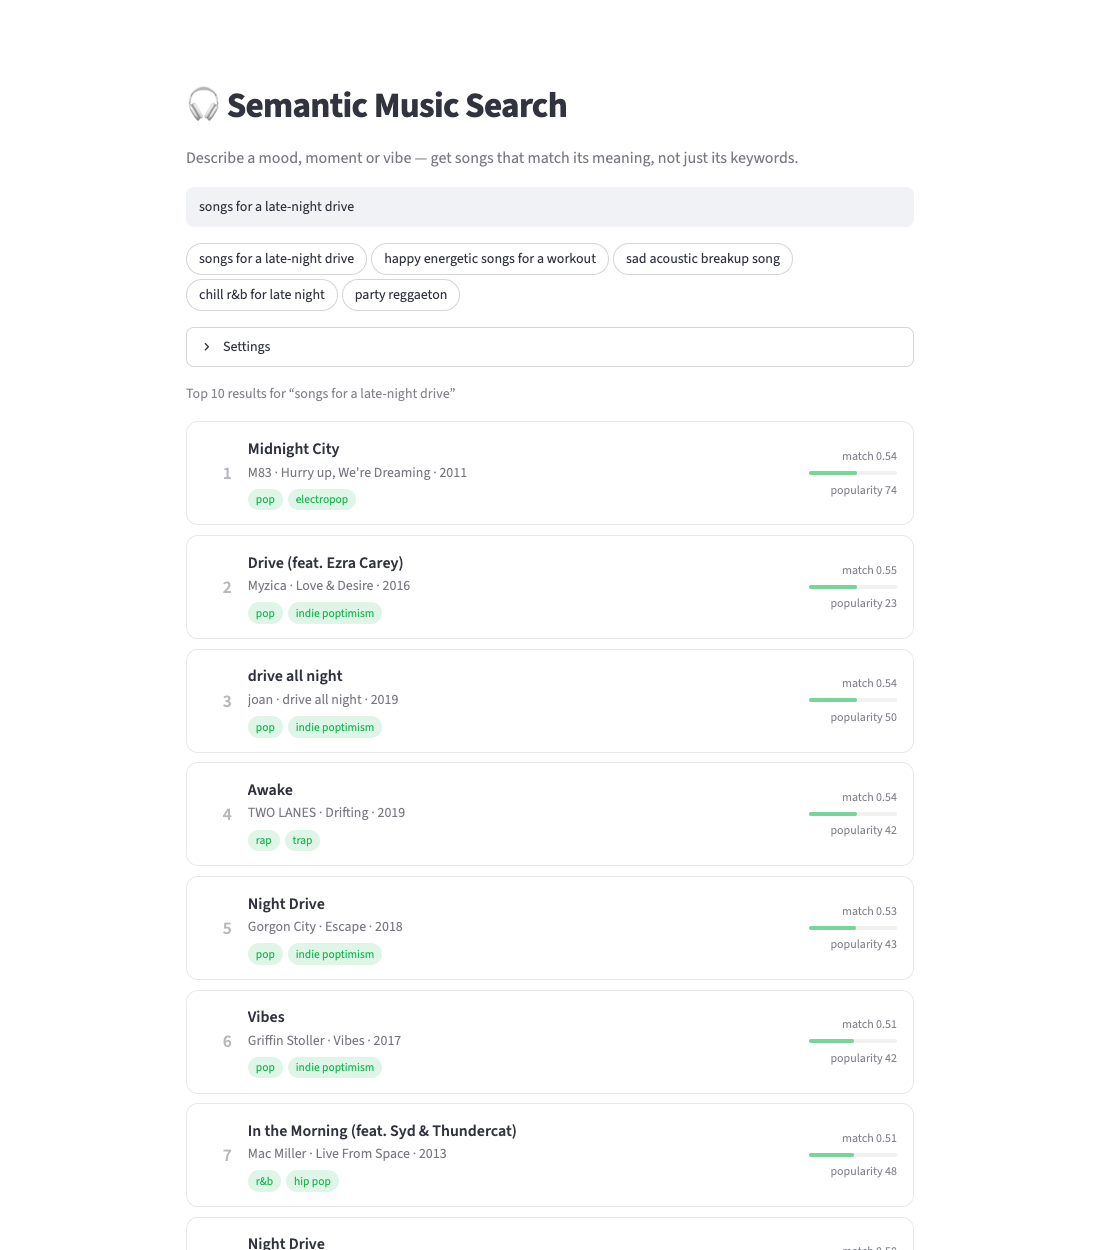
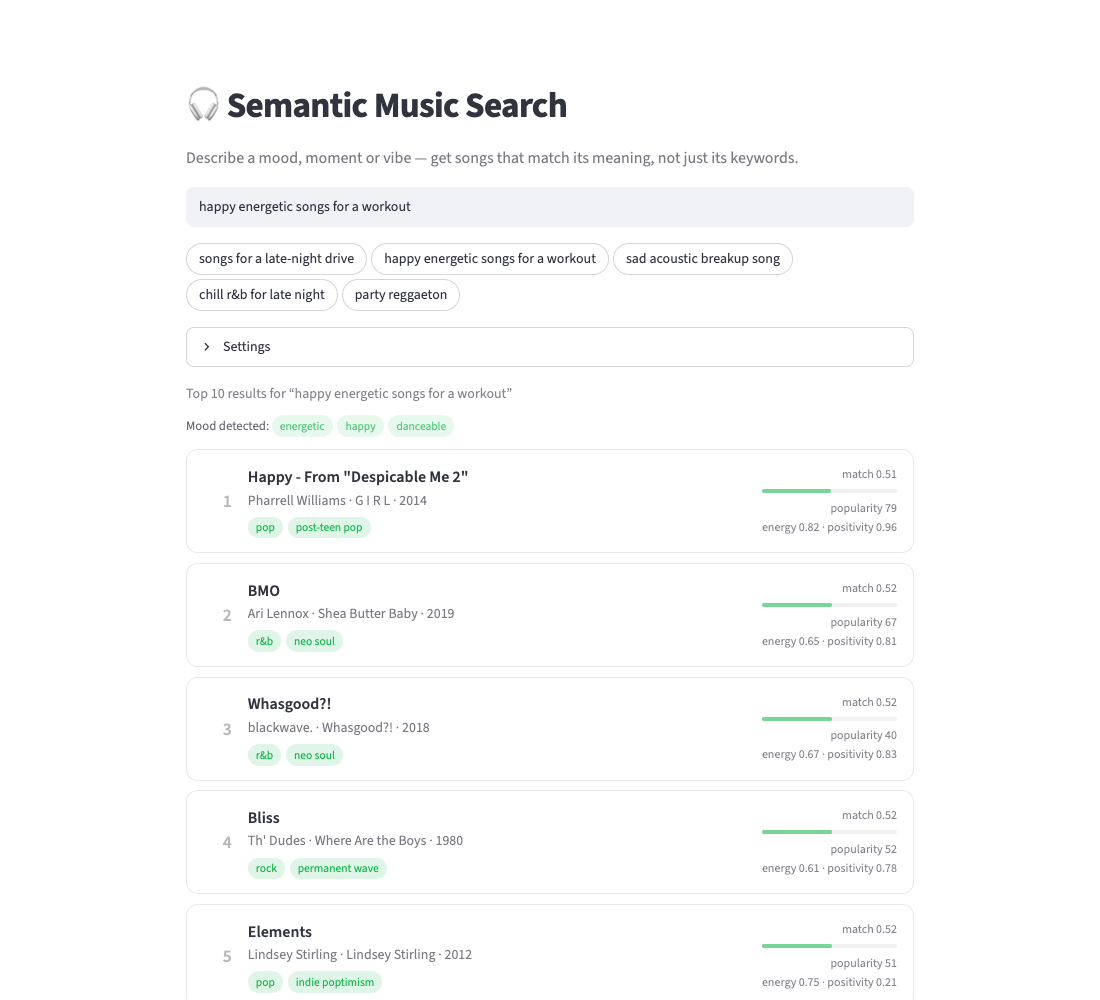
docs: document mood ranking, updated evaluation and dark-mode screenshot

diff --git a/README.md b/README.md
@@ -5,21 +5,27 @@ late-night drive"*, *"sad acoustic breakup song"*, *"party reggaeton"* — inste
 of typing exact titles or artists.
 
 Each song's title, artist, genre and lyrics are encoded into a sentence
-embedding; a query is embedded the same way and matched by cosine similarity,
-with an optional re-rank that nudges well-known songs up among equally good
-matches. It ships with a Streamlit UI, a CLI, and an offline evaluation script.
+embedding; a query is embedded the same way and matched by cosine similarity.
+The best matches are then re-ranked using popularity and — when the query
+mentions a mood like *calm*, *sad* or *workout* — the songs' measured audio
+features (energy, valence, danceability, acousticness). It ships with a
+Streamlit UI, a CLI, and an offline evaluation script.
 
-![Streamlit UI](docs/screenshot.png)
+<picture>
+  <source media="(prefers-color-scheme: dark)" srcset="docs/screenshot-dark.png">
+  <img alt="Streamlit UI showing results for 'happy energetic songs for a workout'" src="docs/screenshot.png">
+</picture>
 
 ## Features
 
 - **Natural-language search** — describe a mood, activity, theme or genre in plain English.
 - **Semantic retrieval** — query and songs are embedded with `all-MiniLM-L6-v2`; results are ranked by cosine similarity (top 10 by default).
 - **Hybrid ranking** — optionally blends semantic similarity with Spotify popularity (`alpha` controls the mix).
+- **Mood-aware ranking** — mood words in the query (e.g. *calm*, *chill*, *sad*, *happy*, *workout*, *dance*, *acoustic*) are matched against each song's audio features, so "calm music" favours songs that actually measure as low-energy — not just songs whose lyrics say "calm".
 - **Duplicate collapsing** — the same song released on several albums appears only once in results.
-- **Streamlit UI** — search box, example queries, adjustable result count / ranking, result cards with album, year, genre tags and a link to the track on Spotify. Searches are shareable via `?q=...` in the URL.
-- **CLI** — `python search.py "your query"` with `--top-k`, `--alpha`, `--no-hybrid`.
-- **Offline evaluation** — Precision@10 / Recall@10 / NDCG@10 over a 10-query weak-labeled set, comparing semantic-only vs. hybrid ranking.
+- **Streamlit UI** — search box, example queries, the detected mood, adjustable result count / ranking, and result cards with album, year, genre tags, energy/positivity and a link to the track on Spotify. Follows your light/dark preference. Searches are shareable via `?q=...` in the URL.
+- **CLI** — `python search.py "your query"` with `--top-k`, `--alpha`, `--mood-weight`, `--no-hybrid`.
+- **Offline evaluation** — Precision@10 / Recall@10 / NDCG@10 over a 10-query weak-labeled set, comparing semantic-only, hybrid, and hybrid + mood ranking.
 
 ## Tech stack
 
@@ -31,8 +37,8 @@ Python 3.10+ · [Sentence Transformers](https://www.sbert.net/) (`all-MiniLM-L6-
 flowchart TD
     A[data/spotify_songs.csv<br/>18,454 songs] --> B[embed.py<br/>song_text = title + artist + genre + lyrics<br/>encode with all-MiniLM-L6-v2]
     B --> C[(song_embeddings.npy<br/>18454 x 384)]
-    B --> D[(song_metadata.csv<br/>track_id, name, artist, popularity)]
-    C --> E[retrieval.py<br/>cosine similarity · hybrid rerank · dedupe]
+    B --> D[(song_metadata.csv<br/>track_id, name, artist, popularity,<br/>energy, valence, danceability, acousticness)]
+    C --> E[retrieval.py<br/>cosine similarity · popularity + mood rerank · dedupe]
     D --> E
     E --> F[search.py<br/>CLI + search function]
     F --> G[app.py<br/>Streamlit UI]
@@ -46,19 +52,24 @@ flowchart TD
 ### How ranking works
 
 1. Embed the query and compute cosine similarity against every song.
-2. **Semantic-only mode:** sort by similarity.
+2. **Semantic-only mode (`--no-hybrid`):** sort by similarity.
 3. **Hybrid mode (default):** take the top 100 songs by similarity (or `2 × top_k` if more results are requested), then re-rank them by
    `score = alpha × norm_similarity + (1 − alpha) × popularity / 100`,
-   where similarity is min-max normalized within that candidate pool. Popularity can only reorder songs that already matched semantically — it never pulls in an unrelated song. `alpha = 0.8` by default (1.0 = pure semantic, 0.0 = pure popularity); it was chosen by hand, not tuned.
-4. Collapse duplicates (same title + artist, case-insensitive) and return the top *k*.
+   where similarity is min-max normalized within that candidate pool. Popularity can only reorder songs that already matched semantically — it never pulls in an unrelated song. `alpha = 0.8` by default (1.0 = pure semantic, 0.0 = pure popularity).
+4. **Mood:** if the query contains mood keywords (`retrieval.MOOD_KEYWORDS`), each one sets a target direction on an audio feature — e.g. *sad* → low valence, *workout* → high energy and danceability, *acoustic* → high acousticness. The candidate pool widens to 200 and the score becomes
+   `score = (1 − mood_weight) × hybrid_score + mood_weight × mood_fit`,
+   where `mood_fit` is the song's average fit to those targets (a feature value for "high", 1 − value for "low"). `mood_weight = 0.3` by default; 0 disables it. Queries without mood words are unaffected.
+5. Collapse duplicates (same title + artist, case-insensitive) and return the top *k*.
+
+`alpha` and `mood_weight` were chosen by hand and sanity-checked on queries outside the evaluation set — not tuned to maximize the evaluation (see [Evaluation](#evaluation) for why that would be circular).
 
 Cosine similarity is used rather than a raw dot product because the model encodes meaning in the *direction* of a vector; normalizing removes any effect of text length on magnitude.
 
 ## Prerequisites
 
-- Python 3.10 or newer (developed and tested on 3.13)
+- Python 3.10 or newer (tested on 3.10 and 3.13)
 - ~2 GB free disk space for dependencies (PyTorch) and ~110 MB for the data + index
-- The dataset: **[Audio features and lyrics of Spotify songs](https://www.kaggle.com/datasets/imuhammad/audio-features-and-lyrics-of-spotify-songs)** (Kaggle, free account required). It is not included in this repo because it contains copyrighted lyrics.
+- The dataset: **[Audio features and lyrics of Spotify songs](https://www.kaggle.com/datasets/imuhammad/audio-features-and-lyrics-of-spotify-songs)** by Muhammad Nakhaee (Kaggle, free account required). It is not included in this repo: it contains copyrighted lyrics and its license is listed as "Unknown".
 
 ## Installation
 
@@ -102,14 +113,15 @@ streamlit run app.py
 ```
 
 Then open http://localhost:8501. Type a query or click an example; open
-**Settings** to change the number of results, toggle hybrid ranking, or adjust
-`alpha`.
+**Settings** to change the number of results, turn popularity boosting or mood
+matching on/off, or adjust their weights.
 
 **CLI**
 
 ```bash
 python search.py "songs for a late-night drive"
 python search.py "aggressive rap with heavy bass" --top-k 5 --alpha 0.6
+python search.py "sad songs about missing someone" --mood-weight 0.5
 python search.py "classic rock anthem" --no-hybrid
 ```
 
@@ -125,15 +137,25 @@ python eval.py
 pytest
 ```
 
-The suite has 23 tests: unit tests for ranking, deduplication and input
-validation (synthetic data, no model needed), CLI error handling, and
-end-to-end tests that run a real search and render the Streamlit app
+The suite has 38 tests: unit tests for ranking, mood detection, deduplication
+and input validation (synthetic data, no model needed), CLI error handling,
+and end-to-end tests that run real searches and render the Streamlit app
 headlessly. The end-to-end tests are skipped automatically if you haven't run
 `embed.py` yet.
 
 ## Usage example
 
 ```
+$ python search.py "sad songs about missing someone" --top-k 5
+
+Top 5 results for "sad songs about missing someone" (hybrid, alpha=0.8; mood: low valence, weight=0.3)
+
+ 1. Missing You — Brandy (sim=0.588, pop=40, score=0.877)
+ 2. Missing You — John Waite (sim=0.561, pop=69, score=0.682)
+ 3. Winter's Ballad — Cuco (sim=0.535, pop=0, score=0.654)
+ 4. Mutiny — Killstation (sim=0.522, pop=34, score=0.617)
+ 5. SaDa — furino (sim=0.504, pop=54, score=0.612)
+
 $ python search.py "songs for a late-night drive"
 
 Top 10 results for "songs for a late-night drive" (hybrid, alpha=0.8)
@@ -148,7 +170,8 @@ Top 10 results for "songs for a late-night drive" (hybrid, alpha=0.8)
 
 - `sim` — cosine similarity between query and song
 - `pop` — Spotify popularity (0–100)
-- `score` — the hybrid ranking score (equals `sim` with `--no-hybrid`)
+- `score` — the final ranking score (equals `sim` with `--no-hybrid`)
+- `mood:` — the audio-feature targets detected from the query (absent when the query has no mood words)
 
 Invalid input is rejected with a clear message, e.g.
 `search.py: error: alpha must be between 0.0 and 1.0`.
@@ -159,21 +182,22 @@ There are no human relevance judgments for this dataset, so `eval.py` uses a
 **weak-labeled** set of 10 queries. Each query is paired with a rule over the
 catalog's genre and audio-feature columns — e.g. *"aggressive rap with heavy
 bass"* counts a song as relevant if `playlist_genre == "rap" AND energy > 0.6
-AND speechiness > 0.15` (full rules in `eval.py::relevance_labels`). The ranker
-never sees those columns, so it can't match the labels directly.
+AND speechiness > 0.15` (full rules in `eval.py::relevance_labels`).
 
 Mean over the 10 queries, K = 10:
 
-| Ranking            | Precision@10 | Recall@10 | NDCG@10 |
-|--------------------|:------------:|:---------:|:-------:|
-| Semantic only      | 0.190        | 0.0030    | 0.430   |
-| Hybrid (alpha=0.8) | 0.180        | 0.0028    | 0.440   |
+| Ranking                                | Precision@10 | Recall@10 | NDCG@10 |
+|----------------------------------------|:------------:|:---------:|:-------:|
+| Semantic only                          | 0.190        | 0.0030    | 0.430   |
+| Hybrid (alpha=0.8)                     | 0.180        | 0.0028    | 0.440   |
+| Hybrid + mood (alpha=0.8, weight=0.3)  | 0.260        | 0.0043    | 0.491   |
 
 How to read this:
 
-- Treat these numbers as **directional**. The labels are hand-written proxies, and 10 queries is too few to separate the two rankers with confidence.
+- Treat these numbers as **directional**. The labels are hand-written proxies, and 10 queries is too few to separate semantic-only from hybrid with confidence.
+- **The mood gain is optimistic.** The semantic and popularity rankers never see genre or audio features, so they can't match the labels directly. The mood reranker *does* use energy, valence, danceability and acousticness — several of the same columns the labels are built from — and its keyword list was written by the same person as the queries. The gain shows the mechanism works as intended; it is not an independent quality measure. Spot checks on queries outside the eval set (e.g. "sad songs about missing someone") show the same direction of improvement.
 - Recall@10 is tiny by construction: many queries have 300–1,400 "relevant" songs.
-- Three queries score 0 under both rankings: *classic rock anthem*, *calm and dreamy for studying late at night*, and *heartbreak sad pop or r&b song*. These are real failure cases. The model only sees text (title, artist, genre, lyrics), so mood or energy queries with no matching words have little to latch onto.
+- Two queries still score 0 with mood ranking: *classic rock anthem* (no mood words, and the text model doesn't distinguish classic rock well) and *calm and dreamy for studying late at night* (the label also requires acoustic, partly instrumental tracks, which are rare among its semantic matches).
 
 ## Project structure
 
@@ -181,14 +205,14 @@ How to read this:
 music-semantic-search/
 ├── app.py               # Streamlit UI
 ├── search.py            # CLI + search() used by the UI
-├── retrieval.py         # shared core: index loading, similarity, ranking, dedupe
+├── retrieval.py         # shared core: index loading, similarity, ranking, mood keywords, dedupe
 ├── embed.py             # builds the embedding index from the dataset
 ├── eval.py              # offline evaluation (Precision/Recall/NDCG@10)
 ├── explore.py           # exploratory data-analysis script (not part of the pipeline)
 ├── tests/
 │   └── test_retrieval.py
 ├── .streamlit/config.toml
-├── docs/screenshot.png
+├── docs/                # README screenshots (light + dark)
 ├── data/                # (not tracked) spotify_songs.csv goes here
 ├── requirements.txt
 ├── pytest.ini
@@ -198,8 +222,8 @@ music-semantic-search/
 
 ## Future improvements
 
-- **Use audio features in ranking.** The dataset already has `energy`, `valence`, `tempo` and `danceability`. Matching a query's implied mood against them is the direct fix for the mood-query failures above.
-- **Tune `alpha`** with a sweep over the evaluation set, ideally using queries and labels written by people who didn't build the ranker.
+- **Independent evaluation.** Relevance judgments from people who didn't build the ranker, so `alpha` and `mood_weight` can be tuned without the circularity described above.
+- **Learned mood mapping.** Replace the hand-written keyword list with a model that predicts target audio features from any query, including moods it doesn't list (and features like `tempo` and `instrumentalness`).
 - **Approximate nearest-neighbour index** (FAISS / HNSW) for catalogs in the millions. Brute force is fine at 18k songs.
 - **Stronger or music-aware embedding model.** `all-MiniLM-L6-v2` is small, fast and general-purpose, but it knows nothing about music.
 - **Personalization** from user feedback or listening history.
